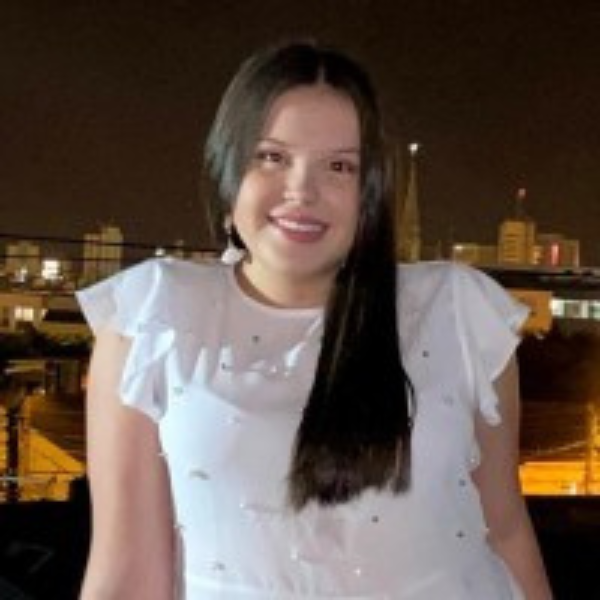
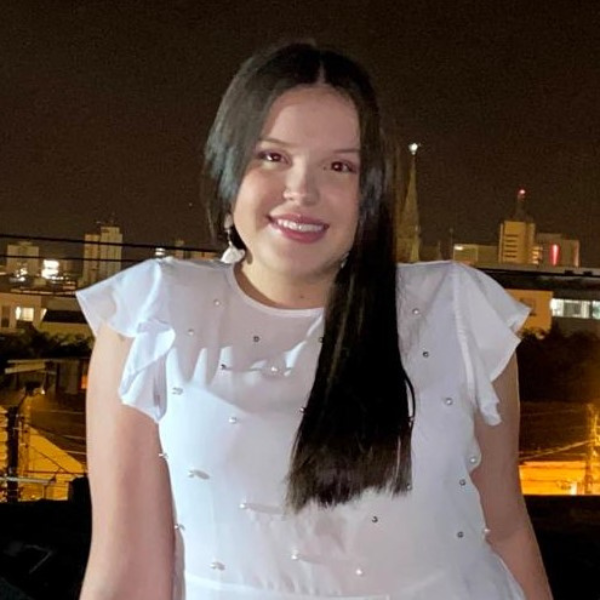
actualizacion fotos junta directiva

diff --git a/index.html b/index.html
@@ -396,21 +396,6 @@
           </div>
 
 
-
-          <div class="col-lg-3 col-md-6 mt-5 mt-lg-0">
-            <div class="member" data-aos="zoom-in" data-aos-delay="400">
-              <div class="pic"><img src="assets/img/team/caicedo.png" class="img-fluid" alt=""></div>
-              <div class="member-info">
-                <h4>Juan Manuel Caicedo Castaño</h4>
-                <span>Repr. Consejo Académico</span>
-                <div class="social">
-                  <a href="https://instagram.com/_juancaicedo" target="_blank"><i class="bi bi-instagram"></i>
-                    _juancaicedo</a>
-                </div>
-              </div>
-            </div>
-          </div>
-
           <div class="col-lg-3 col-md-6 mt-5 mt-lg-0">
             <div class="member" data-aos="zoom-in" data-aos-delay="400">
               <div class="pic"><img src="assets/img/team/juanjo.png" class="img-fluid" alt=""></div>
@@ -424,6 +409,23 @@
               </div>
             </div>
           </div>
+
+
+          <div class="col-lg-3 col-md-6 mt-5 mt-lg-0">
+            <div class="member" data-aos="zoom-in" data-aos-delay="400">
+              <div class="pic"><img src="assets/img/team/german.png" class="img-fluid" alt=""></div>
+              <div class="member-info">
+                <h4>Germán Orozco Loaiza</h4>
+                <span>Repr. Consejo Académico</span>
+                <div class="social">
+                  <a href="https://www.instagram.com/um_german_orozco_loaiza/" target="_blank"><i class="bi bi-instagram"></i>
+                    um_german_orozco_loaiza</a>
+                </div>
+              </div>
+            </div>
+          </div>
+
+          
 
         </div>
 
